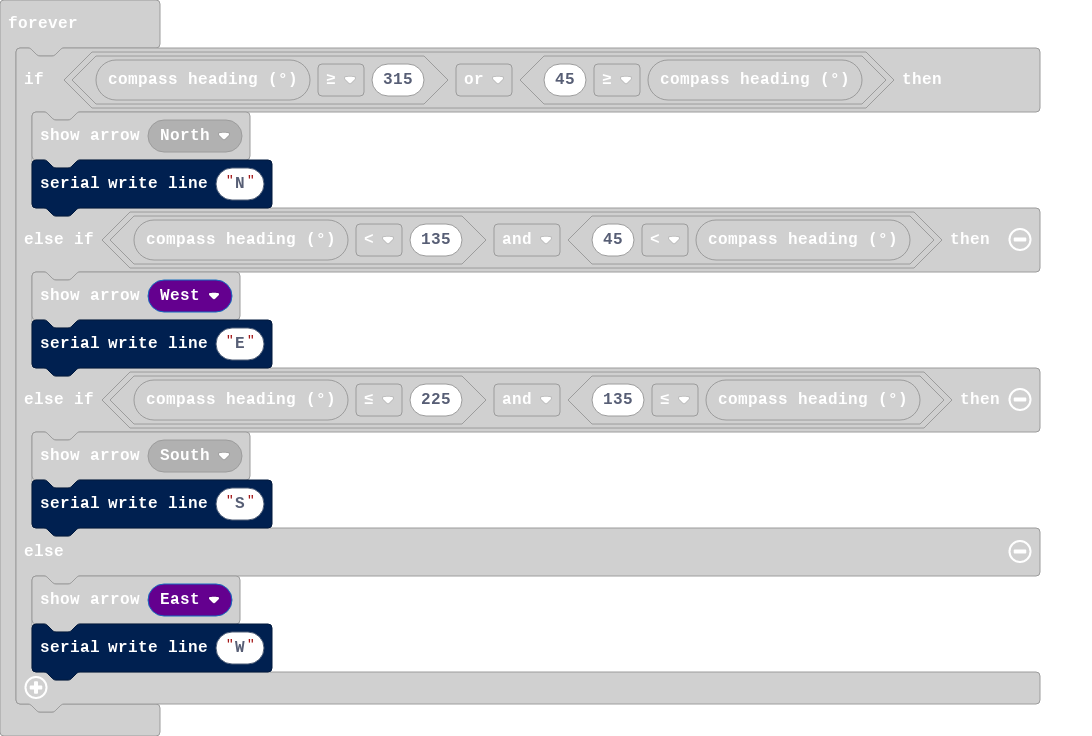
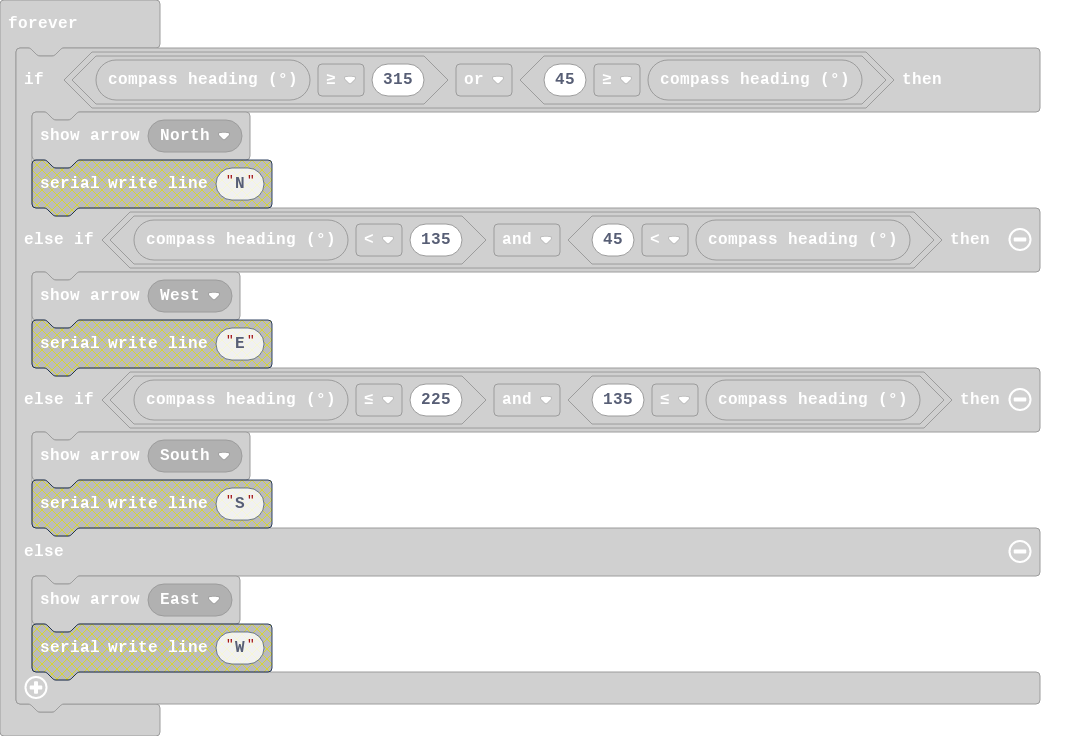
Update main.blocks, main.ts

diff --git a/main.ts b/main.ts
@@ -1,15 +1,11 @@
 basic.forever(function () {
     if (input.compassHeading() >= 315 || 45 >= input.compassHeading()) {
         basic.showArrow(ArrowNames.North)
-        serial.writeLine("N")
     } else if (input.compassHeading() < 135 && 45 < input.compassHeading()) {
         basic.showArrow(ArrowNames.West)
-        serial.writeLine("E")
     } else if (input.compassHeading() <= 225 && 135 <= input.compassHeading()) {
         basic.showArrow(ArrowNames.South)
-        serial.writeLine("S")
     } else {
         basic.showArrow(ArrowNames.East)
-        serial.writeLine("W")
     }
 })
